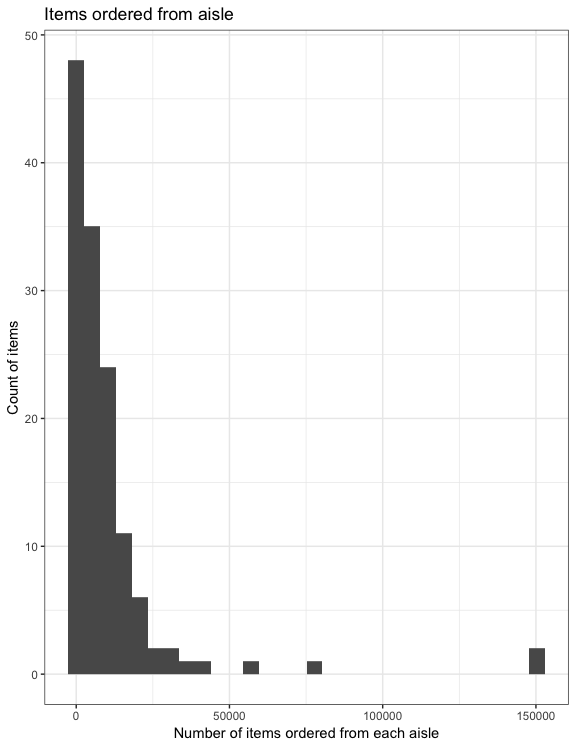
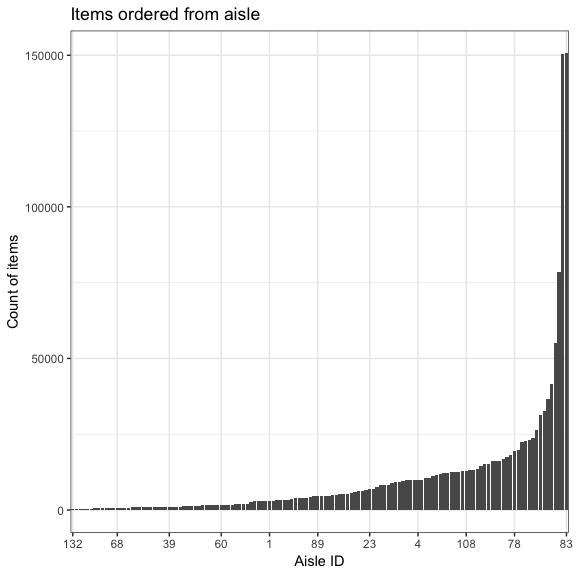
Finished Q3 and final edits

diff --git a/p8105_hw3_qg2155.md b/p8105_hw3_qg2155.md
@@ -7,26 +7,27 @@ Qiu Xia (Helen) Guan
 library(tidyverse)
 ```
 
-    ## ── Attaching packages ───────────────────────────────────────────────────────────── tidyverse 1.2.1 ──
+    ## ── Attaching packages ────────────────────────── tidyverse 1.2.1 ──
 
     ## ✔ ggplot2 3.0.0     ✔ purrr   0.2.5
     ## ✔ tibble  1.4.2     ✔ dplyr   0.7.6
     ## ✔ tidyr   0.8.1     ✔ stringr 1.3.1
     ## ✔ readr   1.1.1     ✔ forcats 0.3.0
 
-    ## ── Conflicts ──────────────────────────────────────────────────────────────── tidyverse_conflicts() ──
+    ## ── Conflicts ───────────────────────────── tidyverse_conflicts() ──
     ## ✖ dplyr::filter() masks stats::filter()
     ## ✖ dplyr::lag()    masks stats::lag()
 
 ``` r
 library(patchwork)
 library(p8105.datasets)
+library(hexbin)
 ```
 
 ``` r
 knitr::opts_chunk$set(
   fig.width = 6,
-  fig.asp = 1.3,
+  fig.asp = 1,
   out.width = "90%"
 )
 
@@ -46,7 +47,7 @@ data("brfss_smart2010")
 brfss_data = brfss_smart2010 %>% 
   janitor::clean_names() %>% 
   filter(topic == "Overall Health") %>% 
-  mutate(response = as.factor(response))
+  mutate(response = factor(response, levels = str_c(c("Excellent" , "Very good", "Good", "Fair", "Poor"))))
 ```
 
 ### Summarizing distinct locations
@@ -87,7 +88,7 @@ brfss_data %>%
 
 <img src="p8105_hw3_qg2155_files/figure-markdown_github/spaghetti plot-1.png" width="90%" />
 
-This spaghetti plot shows the number of locations in each state from 2002 to 2010. Florida in particular seems to have over 40 distinct loactions in two different time points.
+This spaghetti plot shows the number of locations in each state from 2002 to 2010. Florida in particular seems to have over 40 distinct locations in two different time points. Majority of states seem to have around 0 to 10 different locations across the years.
 
 ### Table for mean and standard deviation of "Excellent" responses in NY
 
@@ -119,12 +120,13 @@ brfss_data %>%
   summarize(mean_response = mean(data_value, na.rm = TRUE)) %>% 
   ggplot(aes(x = year, y = mean_response)) +
     geom_violin() +
+    theme(axis.text.x = element_text(angle = 90, hjust = 1)) +
     facet_grid(. ~ response) 
 ```
 
 <img src="p8105_hw3_qg2155_files/figure-markdown_github/five plots-1.png" width="90%" />
 
-Across all states and years, the response category of "Good" seems to have the highest average, followed by "Excellent", "Fair", and "Poor". Excellent seems to have the biggest range out of them all.
+Across all states and years, the response category of "Very good" seems to have the highest average, followed by "Good", "Excellent", "Fair", and "Poor". Average excellent responses range from 12 to almost 30%. Very good ranges from 16 to 43%. Good ranges from 24 to 36%. Fair ranges from 5 to 17%. Poor ranges from 2 to 9%. Very good responses seem to have the most variance whereas poor responses seem to have the least variance.
 
 Problem 2
 ---------
@@ -140,13 +142,17 @@ instacart_data = instacart %>%
   janitor::clean_names() 
 ```
 
+This instacart dataset has 15 variables and 1384617 observations. The variables are order\_id, product\_id, add\_to\_cart\_order, reordered, user\_id, eval\_set, order\_number, order\_dow, order\_hour\_of\_day, days\_since\_prior\_order, product\_name, aisle\_id, department\_id, aisle, and department. Out of all these variables, the key ones include order\_id, product\_id, reordered, order\_dow, order\_hour\_of\_day, days\_since\_prior\_order, product\_name, aisle, and department. These variables can give us a lot of information on popularity of different products, and customer behaviors (day and time or orderes, days in between orders).
+
+Here is a demonstration of reading observation for customer with user\_id 1: This customer's order\_id is 1187899, and they ordered 11 items in this order. The products they ordered are added to cart in this order: soda, organic string cheese, 0% greek strained yogurt, XL paper towel rolls, milk chocolate almonds, postachios, cinnamon toast crunch, aged white cheddar popcorn, organic whole milk, organic half & half, and zero calorie cola. Most of these items belong in the snacks and dairy eggs departments. This ordered was placed on a Thursday and 8 AM. It has been 14 days since their prior order.
+
 ### Aisles and most items ordered
 
 ``` r
 instacart_data %>% 
   group_by(aisle_id) %>% 
   summarize(n_most_ordered = n()) %>% 
-  arrange(desc(n_most_ordered))
+  arrange(desc(n_most_ordered)) 
 ```
 
     ## # A tibble: 134 x 2
@@ -171,19 +177,23 @@ There are 134 aisles. Aisle 83 has the most item ordered from because 150609 ite
 ``` r
 instacart_data %>% 
   group_by(aisle_id) %>% 
-  summarize(n_most_ordered = n()) %>% 
-  ggplot(aes(x = n_most_ordered)) +
-    geom_histogram() +
+  summarize(n_most_ordered = n()) %>%
+  arrange(desc(n_most_ordered)) %>% 
+  mutate(aisle_id = as.factor(aisle_id)) %>% 
+  mutate(aisle_id = forcats::fct_reorder(aisle_id, n_most_ordered)) %>% 
+  ggplot(aes(x = aisle_id, y = n_most_ordered)) +
+    geom_bar(stat = "identity") +
     labs(
       title = "Items ordered from aisle",
-      x = "Number of items ordered from each aisle",
+      x = "Aisle ID",
       y = "Count of items"
-    )
+    ) + 
+  scale_x_discrete(breaks = c("132", "68", "39", "60", "1", "89", "23", "4", "108", "78" , "83"))
 ```
 
-    ## `stat_bin()` using `bins = 30`. Pick better value with `binwidth`.
-
 <img src="p8105_hw3_qg2155_files/figure-markdown_github/aisle plot-1.png" width="90%" />
+
+This bar graph shows that two aisles in particular have a much greater items ordered compared to the rest of the aisles. On the other end, there are also a good number of aisles that have barely any items ordered. A majority of the aisles get anywhere around 0 to 25000 items ordred.
 
 ### Table for most popular item in each of the three aisles
 
@@ -225,3 +235,126 @@ instacart_data %>%
 | Pink Lady Apples |  13.44|  11.36|  11.70|  14.25|  11.55|  12.78|  11.94|
 
 The average order time for Coffee Ice Cream ranges from 12:26 to 15:38 throughout the week. The day with the earliest average order time is Friday and the day with the latest average order time is Tuesday. Pink Lady Apples have an overall earlier average order time than Coffee Ice Cream. The range for Pink Lady Apples average order times are 11:36 to 14:25. The day with the earliest average order time is Monday and the day with the latest average order time is Wednesday.
+
+Problem 3
+---------
+
+### Load and clean dataset
+
+``` r
+data("ny_noaa")
+```
+
+``` r
+noaa_data = ny_noaa %>% 
+  janitor::clean_names() %>% 
+  separate(date, into = c("year", "month", "date"), sep = "-") %>% 
+  mutate(prcp = prcp/10,
+         tmax = as.numeric(tmax)/10,
+         tmin = as.numeric(tmin)/10
+         ) 
+```
+
+Cleaned variable names and separated date into year, month, and date columns. Transformed the precipitation values from tenths of mm to mm by dividing original values by 10. Same is done to transform the minimum and maximum temperatures from tenths of Celsius to Celsius.
+
+### To find the proportion of missing values
+
+``` r
+noaa_data %>% 
+  summarize(n_missing_prcp = mean(is.na(prcp)),
+            n_missing_snow = mean(is.na(snow)),
+            n_missing_snwd = mean(is.na(snwd)),
+            n_missing_tmax = mean(is.na(tmax)),
+            n_missing_tmin = mean(is.na(tmin))
+            )
+```
+
+    ## # A tibble: 1 x 5
+    ##   n_missing_prcp n_missing_snow n_missing_snwd n_missing_tmax
+    ##            <dbl>          <dbl>          <dbl>          <dbl>
+    ## 1         0.0562          0.147          0.228          0.437
+    ## # ... with 1 more variable: n_missing_tmin <dbl>
+
+This NY NOAA dataset has 9 variables and 2595176 observations. The original 7 variables are id, date, prcp, snow, snwd, tmax, and tmin. After separting date into year, month, and day, there are now an additional 2 variables to make a total of 9 variables in the cleaned dataset. The key variables are date, precipitation, snow, snow depth, maximum and minimum temperatures. These variables will be able to give us a lot of information on the weather pattern in New York, especially for precipitation and snow in the winters.
+
+One problem with this dataset is that there are many missing values for snow, snwd, tmax and tmin. This is probably due to the fact that some stations only collect a subset of variables. The proportion of missing in precipitation column is 5.62%, snow is 14.7%, snow depth is 22.8%, tmax and tmin are both 43.7%. The extent in which data is missing is problematic for our analysis. It will be difficult to get accurate weather patterns across NY since we might be missing critical pieces of information from stations that may be situated in locations that are in particular warmer or colder than average.
+
+``` r
+noaa_data %>% 
+  group_by(snow) %>% 
+  summarize(n_snow = n()) %>% 
+  arrange(desc(n_snow))
+```
+
+    ## # A tibble: 282 x 2
+    ##     snow  n_snow
+    ##    <int>   <int>
+    ##  1     0 2008508
+    ##  2    NA  381221
+    ##  3    25   31022
+    ##  4    13   23095
+    ##  5    51   18274
+    ##  6    76   10173
+    ##  7     8    9962
+    ##  8     5    9748
+    ##  9    38    9197
+    ## 10     3    8790
+    ## # ... with 272 more rows
+
+The most commonly observed value for snowfall is 0 mm, with 2008508 observations. This is the expected value because it does not snow on most days throughout the years. The second commonly observed value is NA because this information is missing for many observations. The third commonly observed value is 25 mm with 31022 observations. The fourth commonly observed value is 13 mm with 23095 observations. These values tell us that when it does snow in NY, it is usually very light.
+
+### Plot of average max temp in Jan and July
+
+``` r
+noaa_data %>% 
+  filter(month %in% c("01", "07")) %>% 
+  group_by(year, month, date) %>%
+  summarize(tmax_mean = mean(tmax, na.rm = TRUE)) %>% 
+  ggplot(aes(x = year, y = tmax_mean)) +
+    geom_boxplot() +
+    facet_grid(. ~month) +
+    theme(axis.text.x = element_text(angle = 90, hjust = 1)) +
+    labs(
+      title = "Average max temperature in Janurary and July across years",
+      x = "Years",
+      y = "Average max temperature (C)"
+    )
+```
+
+<img src="p8105_hw3_qg2155_files/figure-markdown_github/avg max-1.png" width="90%" />
+
+The graphs show that there is an appreciable difference between the average maximum temperatures between Jan and July across all years. The range for the average max temp in Jan is anywhere from -15 C to 15 C whereas the average for July is between 20 C to 34 C. There are outliers in some of the years for both months. July has more outliers for low temperatures across years whereas Jan has a relatively equal number of outliers for warmer and cooler average maximum temperatures. Year 1988 had an outlier for especially low temperature (17C) in July. The average maximum temperatures in July also have a smaller variance compared to Janurary judging by the size of the box plots.
+
+### two panel plot for temperatures and snowfall
+
+``` r
+tmin_tmax_plot = ggplot(noaa_data, aes(x = tmin, y = tmax)) +
+  geom_hex() +
+  labs(
+    title = "Temperature Plot",
+    x = "Minimum daily temperature (C)",
+    y = "Maximum daily temperature (C)"
+  )
+
+snowfall_plot = noaa_data %>% 
+  filter(snow > 0 & snow < 100) %>% 
+  group_by(year) %>% 
+  ggplot(aes(x = year, y = snow)) +
+  geom_boxplot() +
+  labs(
+    title = "Distribution of Snowfall(0>snow<100) by Year",
+    x = "Year",
+    y = "Distribution of Snow"
+  ) +
+  theme(axis.text.x = element_text(angle = 90, hjust = 1)) 
+
+tmin_tmax_plot/snowfall_plot
+```
+
+    ## Warning: Removed 1136276 rows containing non-finite values (stat_binhex).
+
+<img src="p8105_hw3_qg2155_files/figure-markdown_github/two panel plot-1.png" width="90%" />
+
+The first tmax and tmin plot shows that the minimum daily temperatures can range from -45 C to 40 C, with outliers near -60 C on the cold end and up to 60 C on the warm end. On the other end, maximum temperatures can range from -30 C to 40 C, with outliers as cold as -40 C and as hot as 60 C. The light shade of blue in the center of the cluster represents the range for the most common maximum and minimum temperatures. This means the most observed minimum temperature in NY is from 0 C to 15 C, and the most observed maximum temperature is from 10 C to 30 C.
+
+The second box plot shows the distribution of snowfall across all years. This box plot shows a rather stable distribution of snowfall across most years because the boxes are very similar to one another. The average distribution of snowfall is around 25 mm across all years. Years 1998, 2004, 2006, 2007, and 2010 had noticibly less snowfalls than usual. However, year 2006 also had many outliers for high snall fall ranging up to 100 mm. Years 1998 and 2010 also had a few outliers for heavy snowfall.
